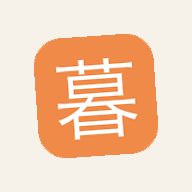
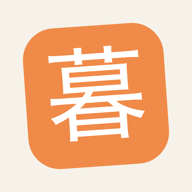
Icona 暮: stesso disegno, a 1024px e un po' più grande nel riquadro

Changed region(s): [[0.0938, 0.0938, 0.9062, 0.9062], [0.25, 0.2188, 0.75, 0.75]]

diff --git a/index.html b/index.html
@@ -12,7 +12,7 @@
 <meta http-equiv="Content-Security-Policy" content="default-src 'self'; script-src 'self' https://cdn.jsdelivr.net; style-src 'self' 'unsafe-inline' https://fonts.googleapis.com; font-src https://fonts.gstatic.com; img-src 'self' data: blob: https:; connect-src 'self' https://zwqoxbkcfebiipkssiws.supabase.co wss://zwqoxbkcfebiipkssiws.supabase.co https://api.open-meteo.com https://geocoding-api.open-meteo.com https://api.bigdatacloud.net https://openlibrary.org https://covers.openlibrary.org https://itunes.apple.com https://cdn.jsdelivr.net; worker-src 'self'; manifest-src 'self'; object-src 'none'; base-uri 'none'; form-action 'self'">
 <link rel="manifest" href="manifest.json">
 <link rel="icon" href="icons/icon.svg" type="image/svg+xml">
-<link rel="apple-touch-icon" href="icons/apple-touch-icon.png">
+<link rel="apple-touch-icon" sizes="1024x1024" href="icons/apple-touch-icon.png">
 <meta name="apple-mobile-web-app-capable" content="yes">
 <meta name="mobile-web-app-capable" content="yes">
 <meta name="apple-mobile-web-app-status-bar-style" content="default">

diff --git a/sw.js b/sw.js
@@ -3,7 +3,7 @@
 // Le chiamate a Supabase e agli altri domini non vengono mai toccate.
 // ============================================================
 // Cambiare il numero ad ogni modifica dei file: forza il download dei nuovi.
-const CACHE_NAME = "kurashi-v29";
+const CACHE_NAME = "kurashi-v30";
 const APP_SHELL = [
   "./", "./index.html", "./css/style.css", "./css/dashboard.css", "./css/views.css", "./manifest.json",
   "./icons/icon.svg", "./icons/icon-192.png", "./icons/icon-512.png", "./icons/apple-touch-icon.png",
